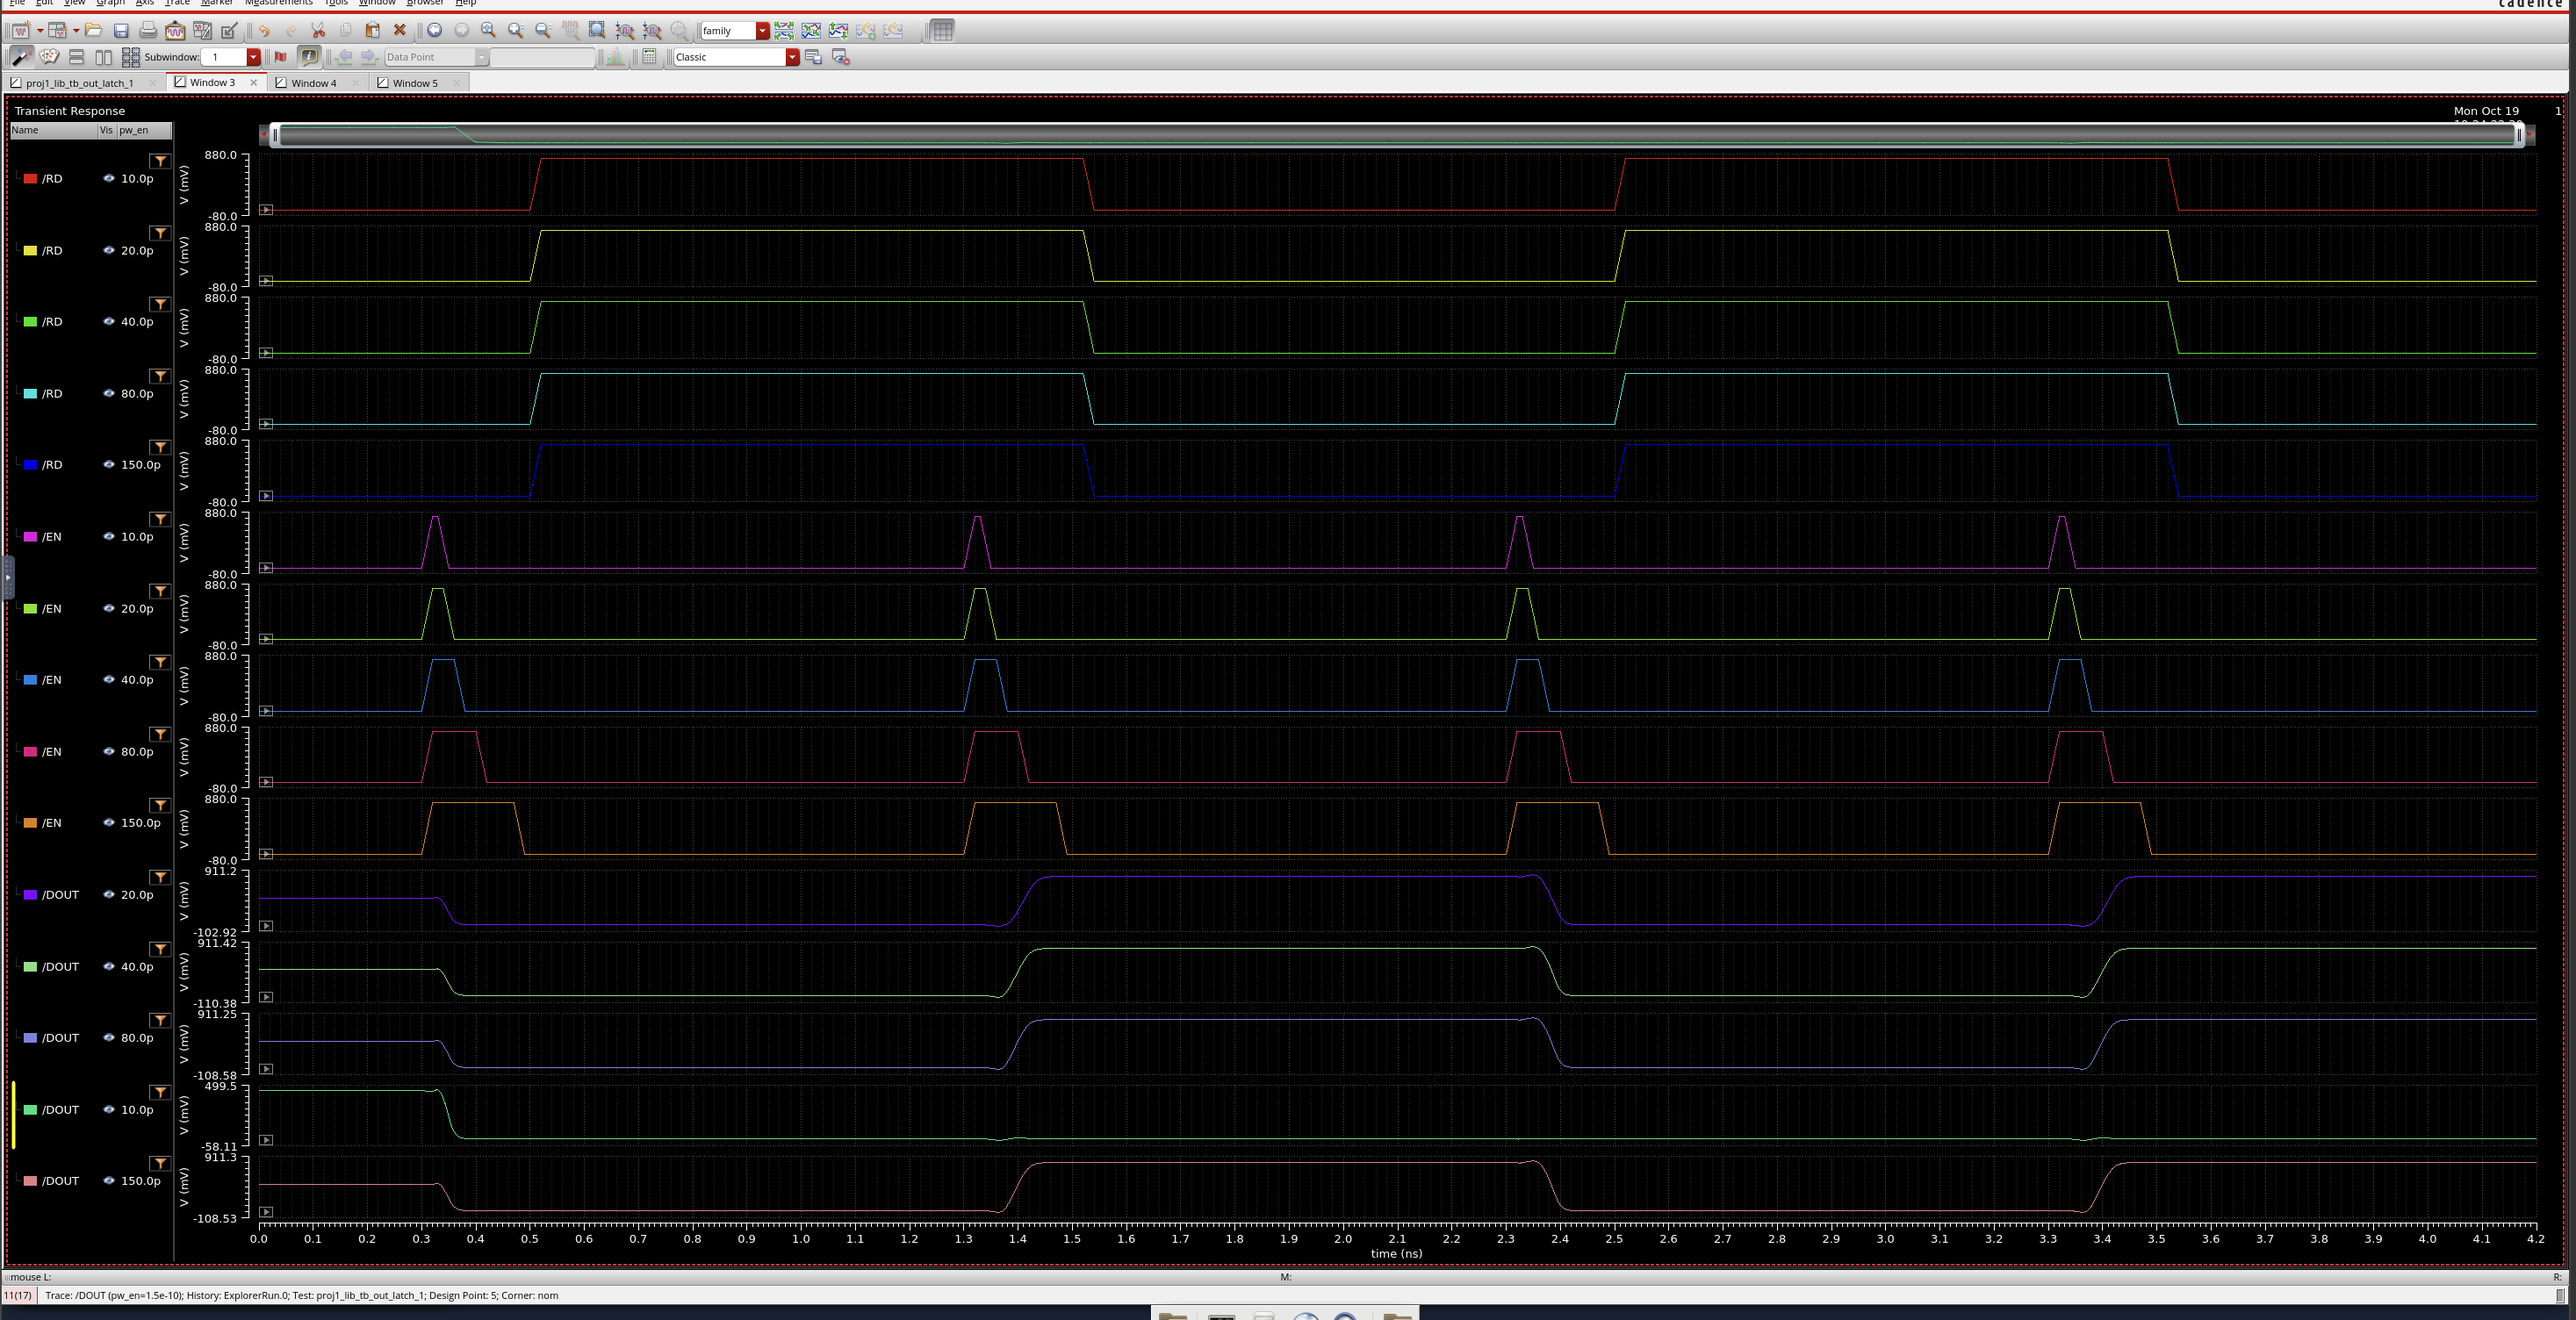
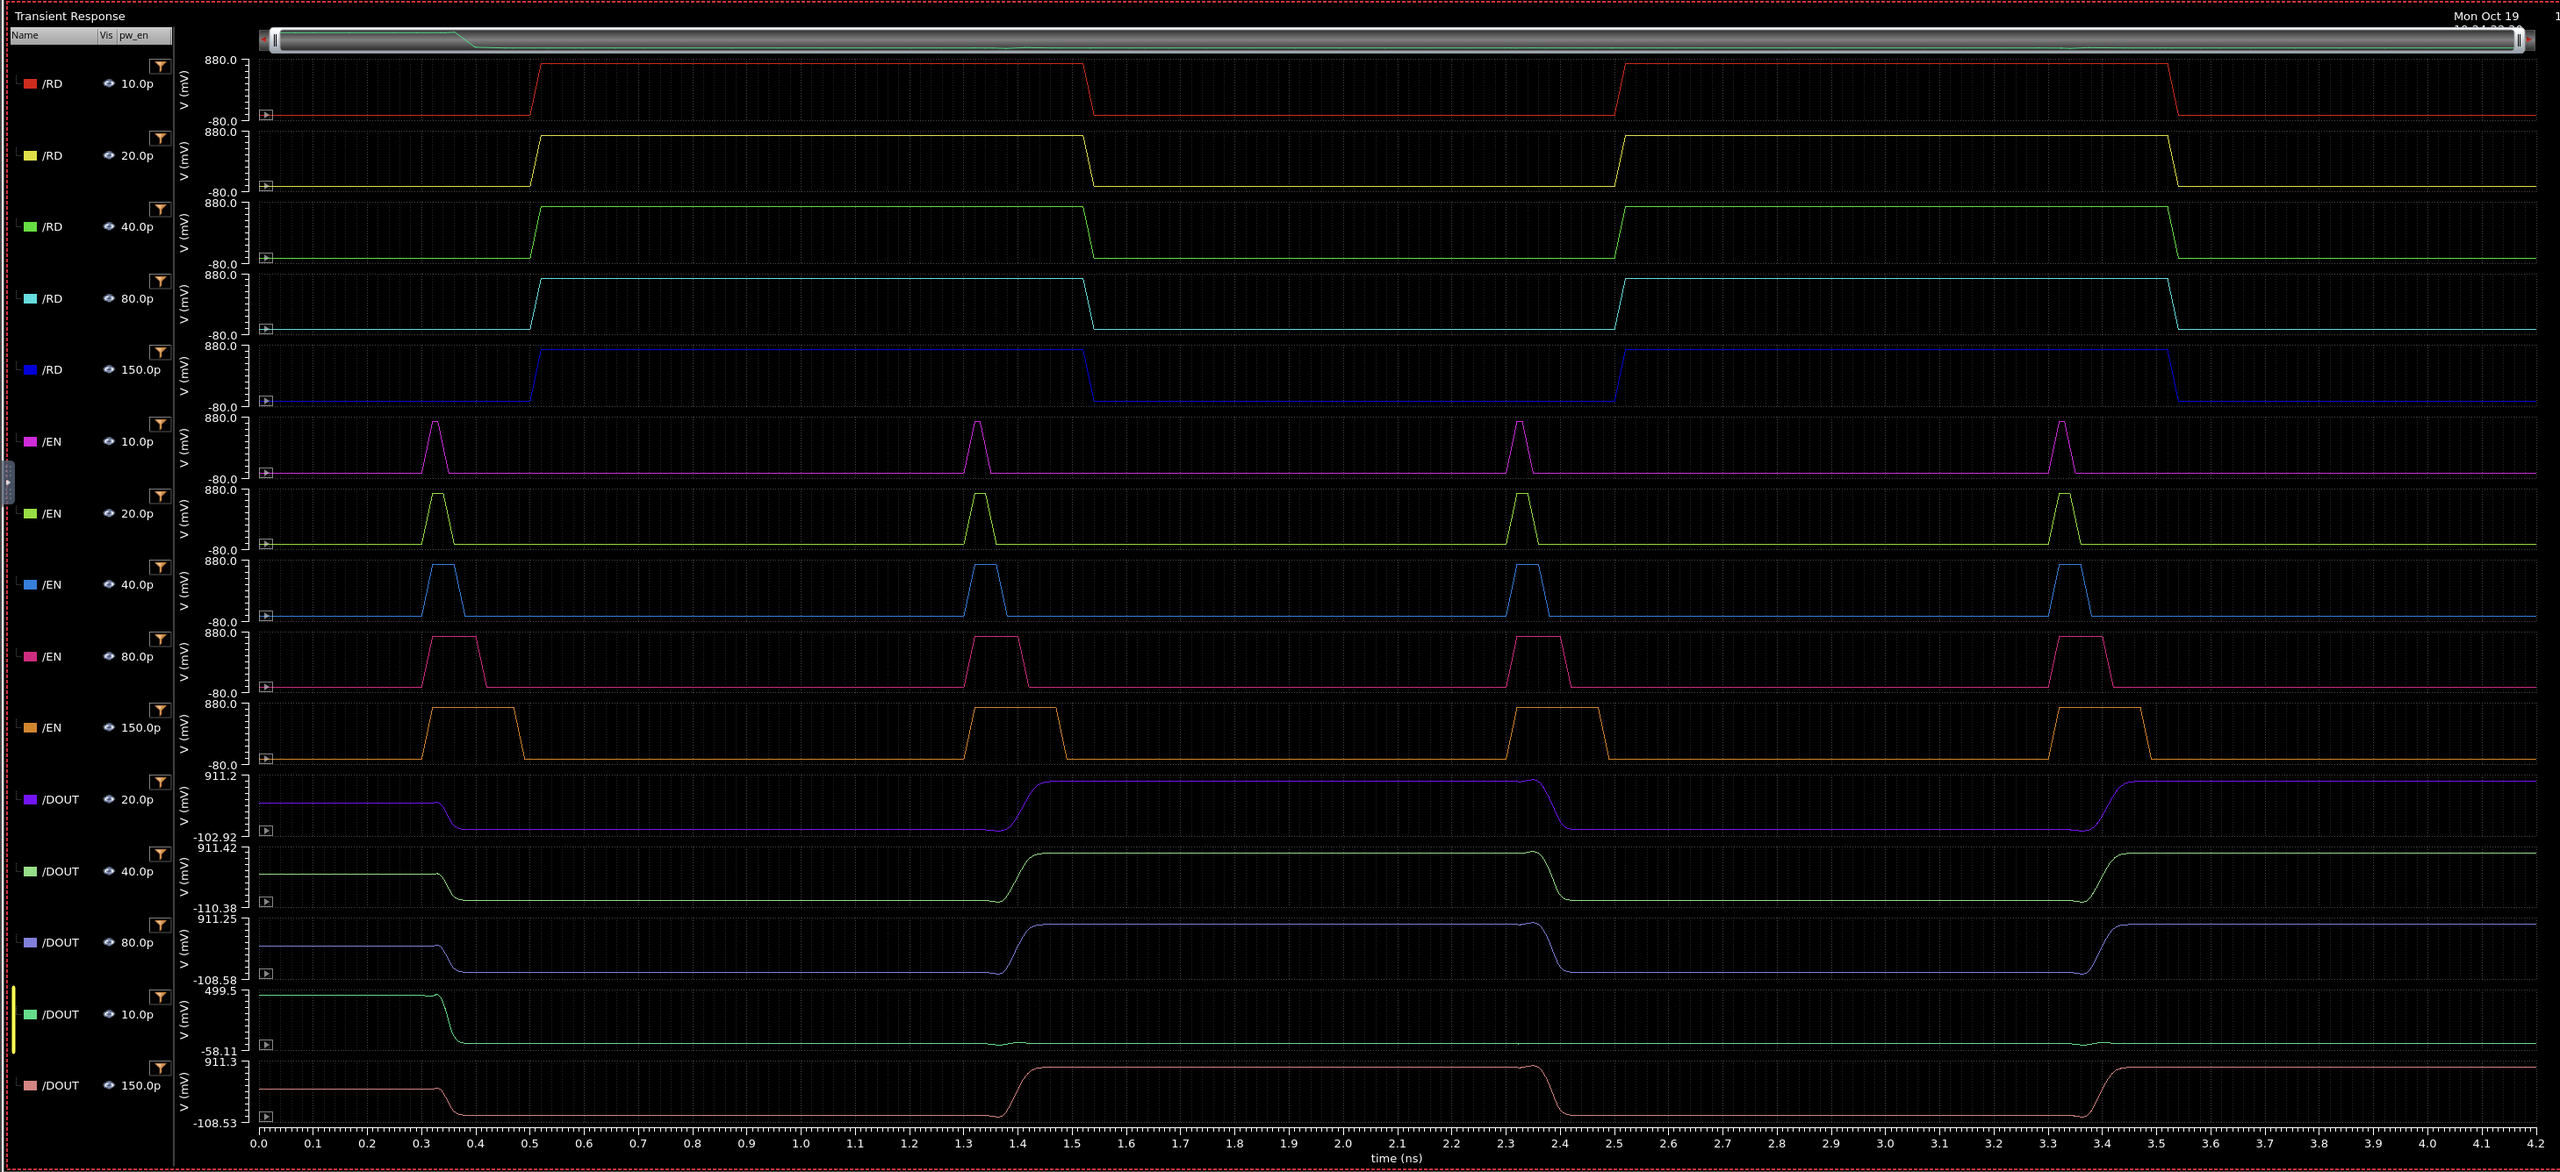
media: use cropped out_latch family plot as best

diff --git a/results/out_latch_report_figures.md b/results/out_latch_report_figures.md
@@ -24,13 +24,14 @@ Source files: sweep data `out_latch_pw_en_sweep.csv`; full record `out_latch_uni
 
 ## All pw_en traces (optional figure)
 
-Best one for the report: `../media/out_latch/out_latch_pw_en_family_full_BEST.png`. It stacks RD, EN and DOUT for all five pw_en values (10p, 20p, 40p, 80p, 150p) over 0-4.2 ns with readable axes and labels. The 10p DOUT trace stays near 0 V and never captures the 1. This version has no toolbar overlay, so it can be used as is.
+Best one for the report: `../media/out_latch/out_latch_pw_en_family_full_BEST.png`. It stacks RD, EN and DOUT for all five pw_en values (10p, 20p, 40p, 80p, 150p) over 0-4.2 ns with readable axes and labels. The 10p DOUT trace stays near 0 V and never captures the 1. This version is cropped to the plot area (no toolbar, tabs or status bar), so it can be used as is.
 
 Other captures, kept in case they are needed (all in `media/out_latch/`):
 
 | File | What it is |
 |---|---|
-| `out_latch_pw_en_family_full_BEST.png` | Full stack, readable, no overlay (use this one) |
+| `out_latch_pw_en_family_full_BEST.png` | Full stack, readable, cropped to the plot (use this one) |
+| `out_latch_pw_en_family_full_uncropped.png` | Same stack with the tool toolbar, tabs and status bar still showing |
 | `out_latch_pw_en_family_full_vnc_overlay.png` | Same stack, but a VNC toolbar covers the left edge |
 | `out_latch_pw_en_family_full_dark_unreadable.png` | Same full stack, dark with very small text |
 | `out_latch_pw_en_family_partial_dout.png` | Scrolled view: EN (80p, 150p) and DOUT for all five values |
